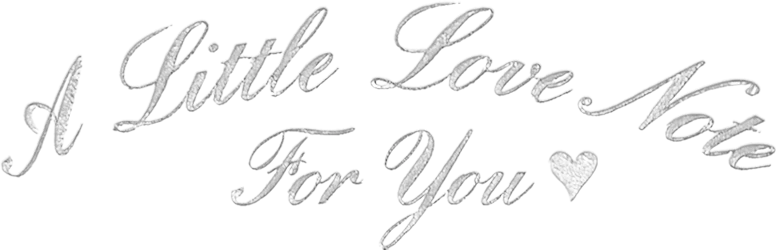
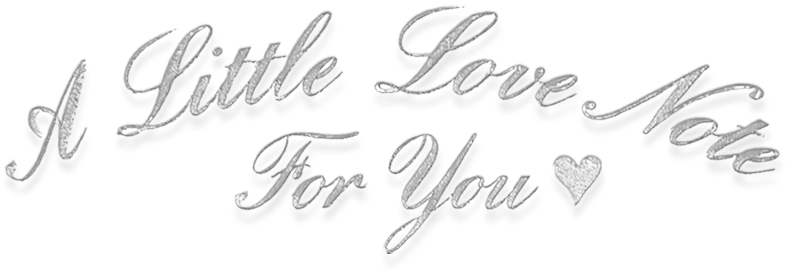
Add alt 3 popup artwork

diff --git a/README.md b/README.md
@@ -2,3 +2,11 @@
 
 Image assets for the cherielou.com newsletter popup, served via jsDelivr.
 Design by rawpetal studio.
+
+## Versions
+
+- `v2` — original popup artwork and button assets
+- `v3` — alt.3 envelope, letter card, headline, and body copy
+
+Web pages should use the tagged jsDelivr URLs so published artwork does not
+change when newer versions are added.
